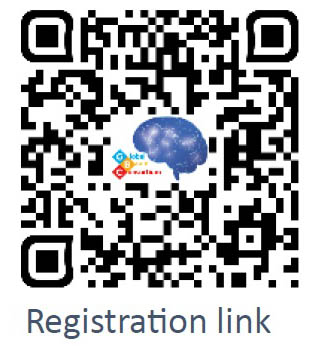
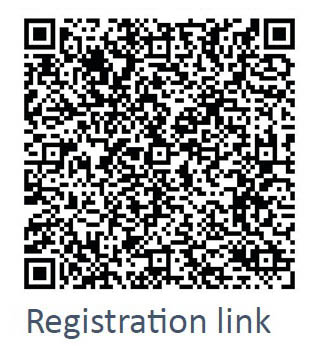
#100 updated QR code and registration links

diff --git a/event-annualMeeting-sept2024.html b/event-annualMeeting-sept2024.html
@@ -81,7 +81,7 @@
                 <a href="http://neurotech-2024.com/index.html" target="_blank"><button class="float-right full-width small-spacer">Go To Website</button></a>
               </div>
               <div>
-                <a href="http://neurotech-2024.com/index.html" target="_blank"><button class="float-right full-width small-spacer">Register Now</button></a>
+                <a href="https://www.eventbrite.com/e/the-global-brain-consortiums-general-assembly-2024-tickets-971985543927?utm-campaign=social&utm-content=attendeeshare&utm-medium=discovery&utm-term=listing&utm-source=cp&aff=ebdsshcopyurl" target="_blank"><button class="float-right full-width small-spacer">Register Now</button></a>
               </div>
               <div >
                 <img src="images/thumbs/GBC-GA2024-QR.jpg" class="native-width">

diff --git a/index.html b/index.html
@@ -153,7 +153,7 @@
               <li>Online modality, that will take place from 20:00 to 24:00, Chengdu time, from September 6th and 8th.</li>
             </ul>
             <p>
-              <a href="https://neurotech.sciconf.cn/cn/web/index" target="_blank">Register Now</a><br>
+              <a href="https://www.eventbrite.com/e/the-global-brain-consortiums-general-assembly-2024-tickets-971985543927?utm-campaign=social&utm-content=attendeeshare&utm-medium=discovery&utm-term=listing&utm-source=cp&aff=ebdsshcopyurl" target="_blank">Register Now</a><br>
             </p>
           </div>
           <a href="event-annualMeeting-sept2024.html"><button class="margin-center float-right">read more</button></a>

diff --git a/events.html b/events.html
@@ -85,7 +85,7 @@
               </ul>
             <p>
             <p>
-              <a href="https://neurotech.sciconf.cn/cn/web/index" target="_blank">Register Now</a><br>
+              <a href="https://www.eventbrite.com/e/the-global-brain-consortiums-general-assembly-2024-tickets-971985543927?utm-campaign=social&utm-content=attendeeshare&utm-medium=discovery&utm-term=listing&utm-source=cp&aff=ebdsshcopyurl" target="_blank">Register Now</a><br>
             </p>
           </div>
           <a href="event-annualMeeting-sept2024.html"><button class="margin-center float-right">read more</button></a>
